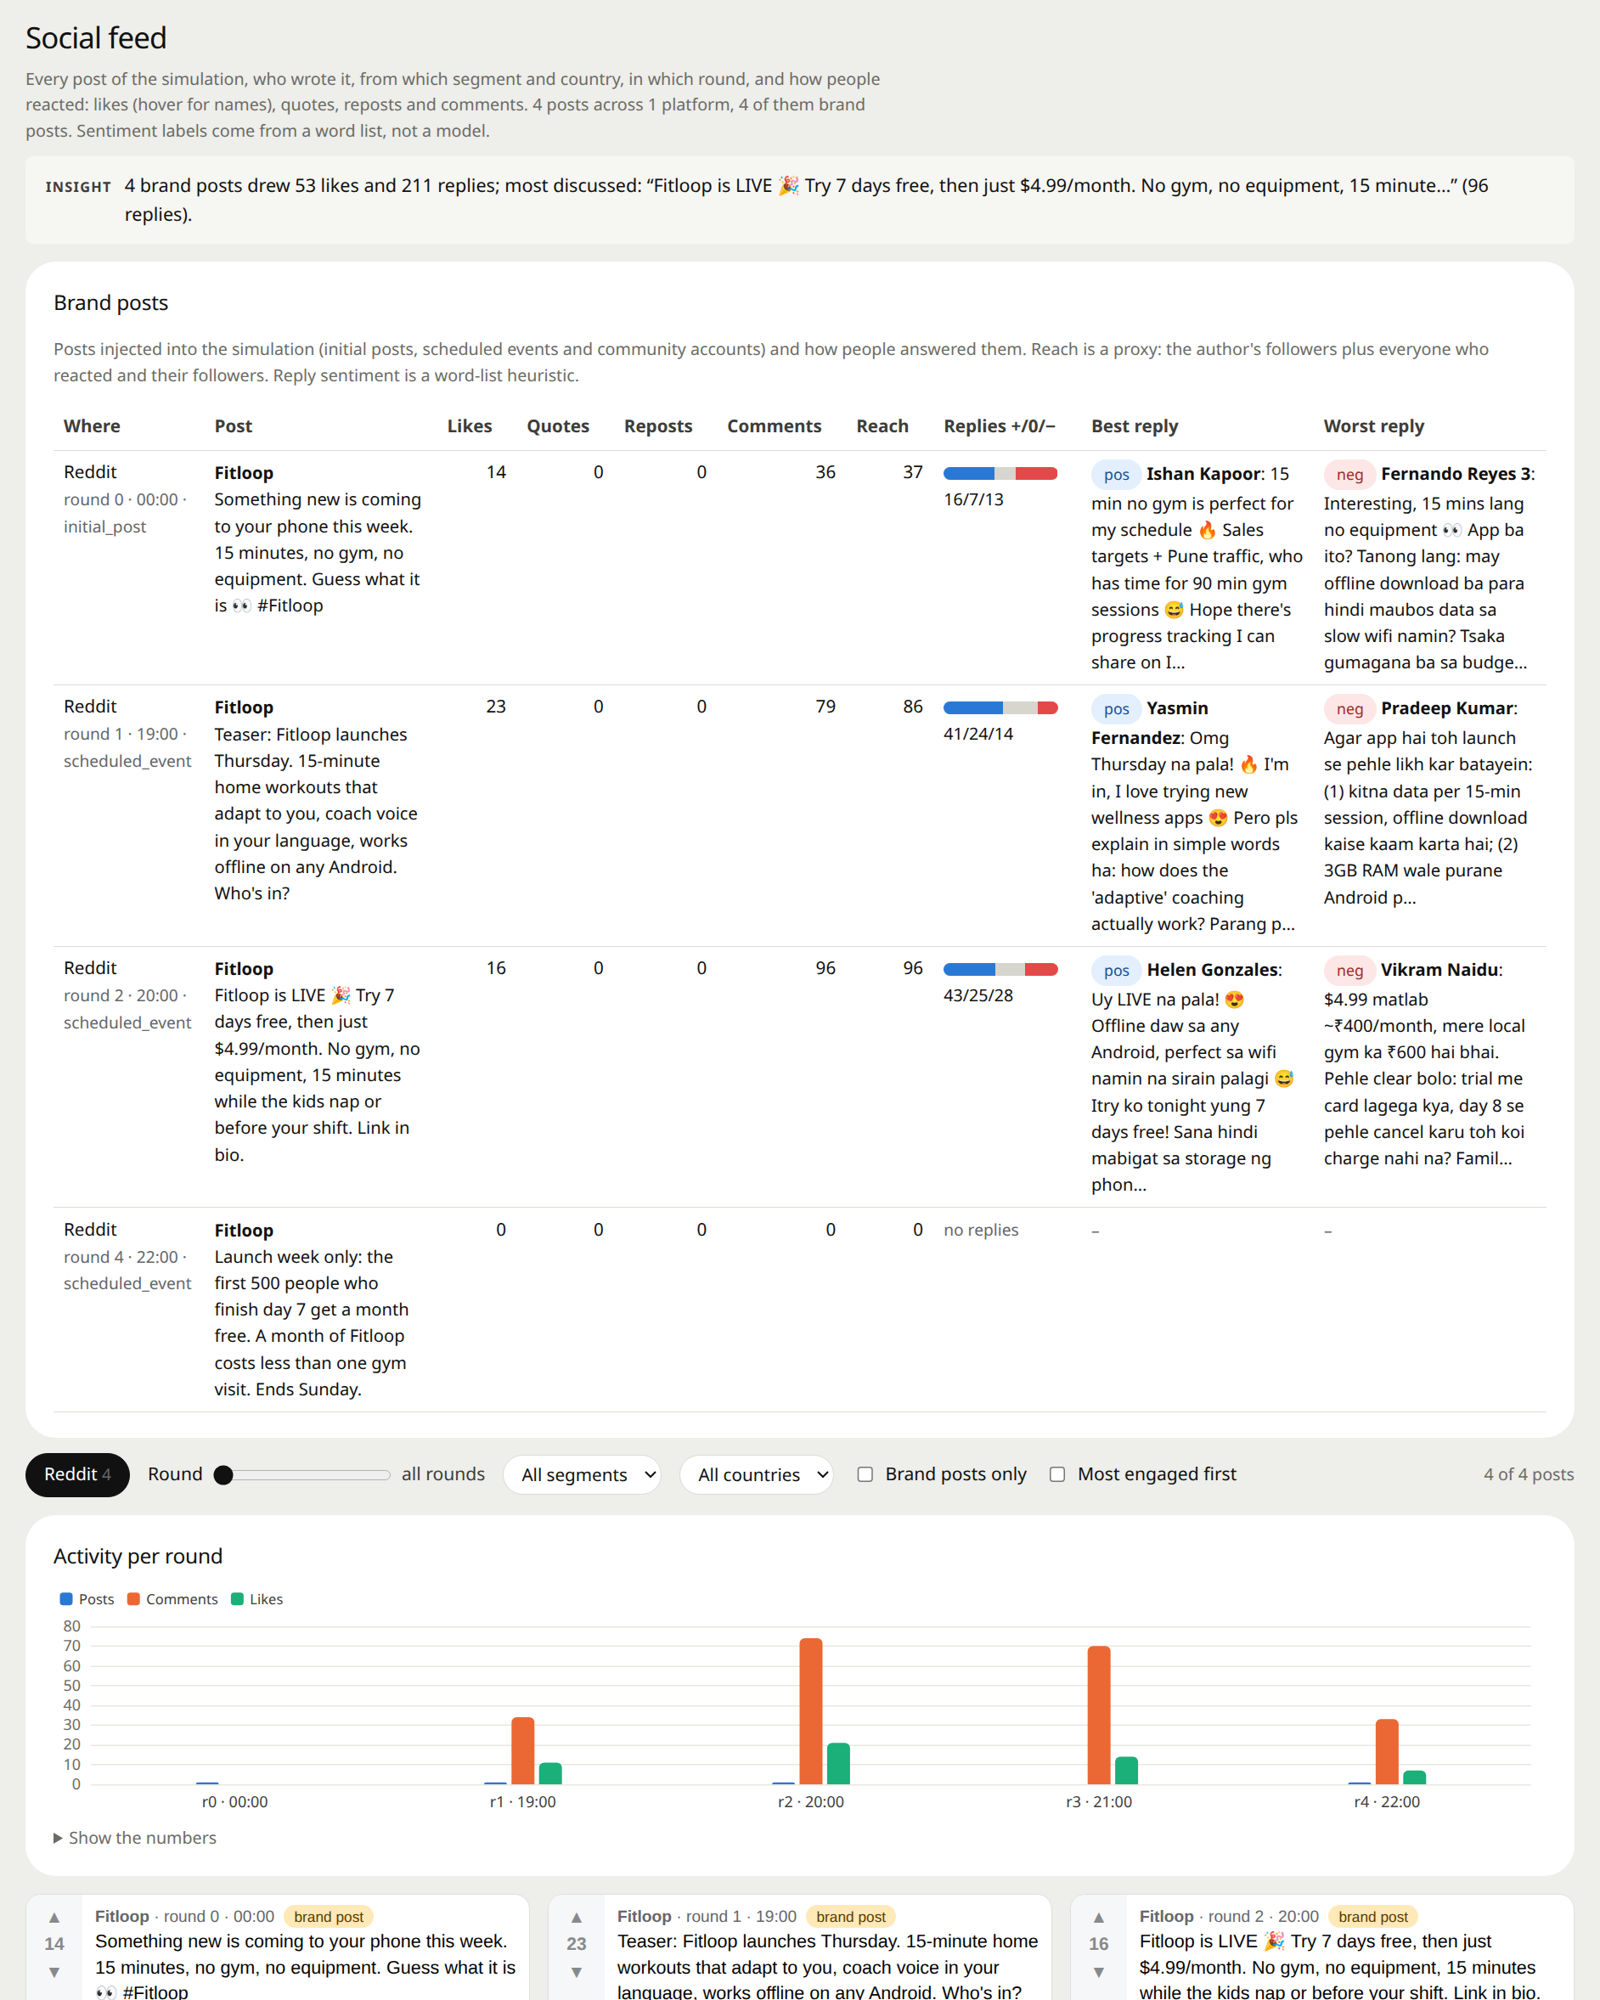
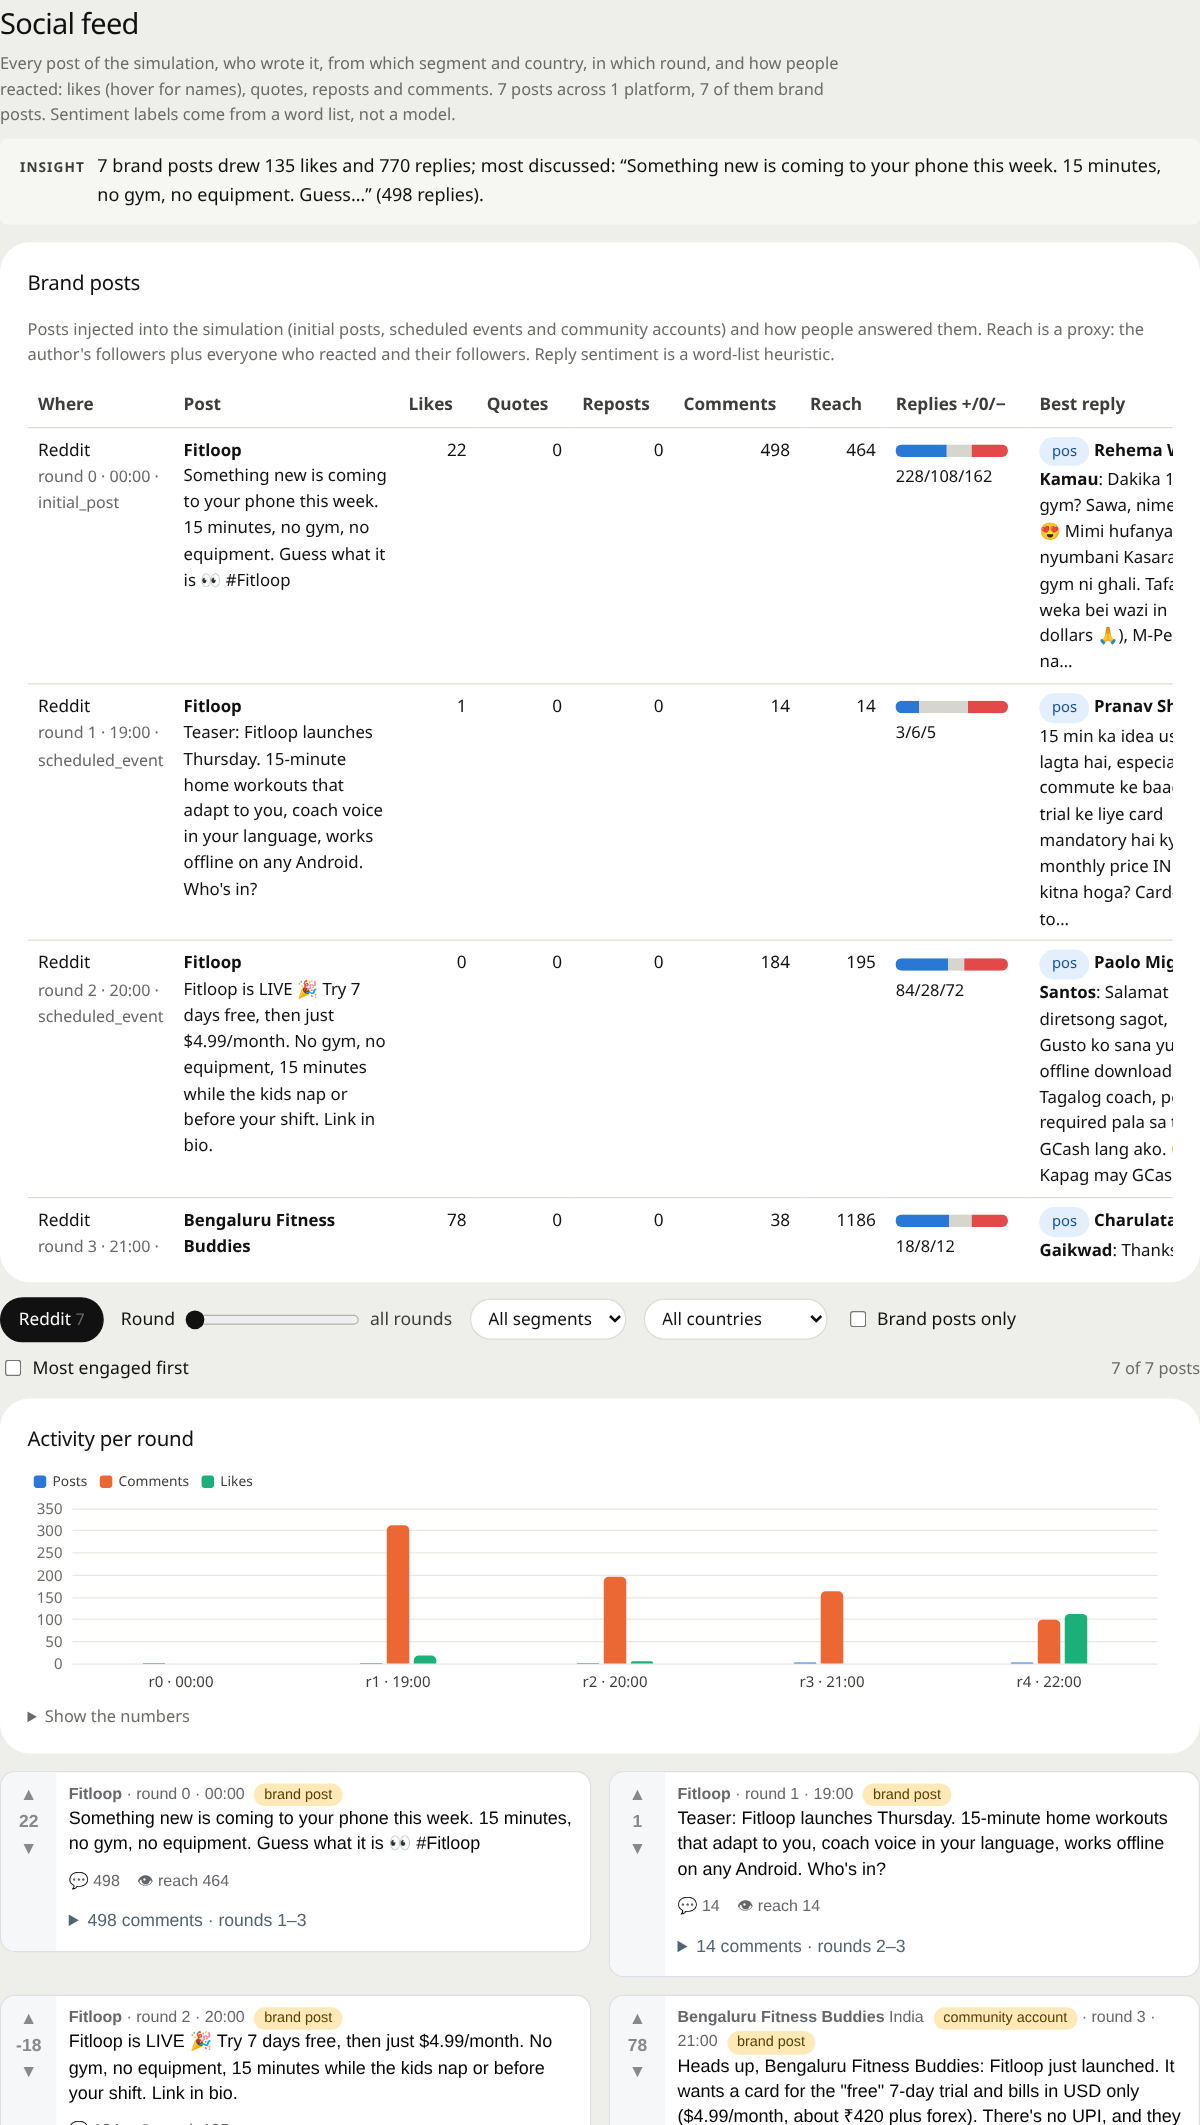
README screenshots from the 3,000-person mixed market: light and dark hero and 15 sections, with new images for model agreement and the sales rehearsal; scripts/readme_screenshots.py regenerates them from any dashboard with the installed Chrome

diff --git a/scripts/readme_screenshots.py b/scripts/readme_screenshots.py
@@ -1,0 +1,92 @@
+"""Capture the README screenshots from a run's dashboard.html with the system Chrome (Playwright, channel "chrome").
+
+    backend/.venv/bin/python scripts/readme_screenshots.py mirofish_runs/<run>/dashboard.html --out docs/images
+
+Writes the light and dark hero (dashboard-results.png, dashboard-dark.png) and one image per dashboard section,
+1600 px wide, each cut at MAX_HEIGHT so long sections stay readable in the README.
+"""
+
+import argparse
+import os
+import sys
+
+from playwright.sync_api import sync_playwright
+
+WIDTH, SCALE, MAX_HEIGHT = 1280, 1.25, 1700
+# README image -> dashboard section id(s); several ids are captured together, top of the first to bottom of the last
+SECTIONS = {
+    "glance.png": ["kpis", "decision"],
+    "map.png": ["worldmap"],
+    "report.png": ["report"],
+    "results.png": ["results"],
+    "models.png": ["models"],
+    "playbook.png": ["playbook"],
+    "pitch.png": ["pitch"],
+    "feed-test.png": ["feedtest"],
+    "social-feed.png": ["socialfeed"],
+    "audiences.png": ["audiences"],
+    "objections.png": ["objections"],
+    "messages.png": ["messages"],
+    "pricing.png": ["pricing"],
+    "analysts.png": ["analysts"],
+    "people.png": ["agents"],
+}
+
+
+def settle(page, ms=900):
+    page.wait_for_timeout(ms)
+
+
+def main() -> int:
+    ap = argparse.ArgumentParser()
+    ap.add_argument("dashboard")
+    ap.add_argument("--out", default="docs/images")
+    ap.add_argument("--only", nargs="*", help="image names to capture (default: all)")
+    a = ap.parse_args()
+    url = "file://" + os.path.abspath(a.dashboard)
+    os.makedirs(a.out, exist_ok=True)
+    want = set(a.only or [])
+    with sync_playwright() as p:
+        browser = p.chromium.launch(channel="chrome", headless=True)
+        for scheme, name in (("light", "dashboard-results.png"), ("dark", "dashboard-dark.png")):
+            if want and name not in want:
+                continue
+            page = browser.new_page(viewport={"width": WIDTH, "height": round(1067 / SCALE)}, device_scale_factor=SCALE,
+                                    color_scheme=scheme)
+            page.goto(url, wait_until="load")
+            settle(page, 1500)
+            page.screenshot(path=os.path.join(a.out, name))
+            print("wrote", name, flush=True)
+            page.close()
+        page = browser.new_page(viewport={"width": WIDTH, "height": 1000}, device_scale_factor=SCALE, color_scheme="light")
+        page.goto(url, wait_until="load")
+        settle(page, 1500)
+        # the sticky top bar and filter chips would sit on top of every section shot
+        page.evaluate("""() => { for (const el of document.querySelectorAll('body *')) {
+            const pos = getComputedStyle(el).position;
+            if (pos === 'sticky' || pos === 'fixed') el.style.setProperty('position', 'static', 'important'); } }""")
+        for name, ids in SECTIONS.items():
+            if want and name not in want:
+                continue
+            first = page.locator(f"#{ids[0]}")
+            if not first.count():
+                print("missing section", ids[0], "for", name, file=sys.stderr)
+                continue
+            for sid in ids:                                   # charts render when they scroll into view
+                page.locator(f"#{sid}").scroll_into_view_if_needed()
+                settle(page)
+            top = page.evaluate(f"document.getElementById('{ids[0]}').getBoundingClientRect().top + window.scrollY")
+            r = page.evaluate(f"(() => {{ const b = document.getElementById('{ids[-1]}').getBoundingClientRect();"
+                              f" return {{x: b.left + window.scrollX, bottom: b.bottom + window.scrollY, w: b.width}}; }})()")
+            height = min(r["bottom"] - top, MAX_HEIGHT)
+            page.evaluate(f"window.scrollTo(0, {max(0, top - 20)})")
+            settle(page)
+            page.screenshot(path=os.path.join(a.out, name), full_page=True,
+                            clip={"x": r["x"], "y": top, "width": r["w"], "height": height})
+            print("wrote", name, int(r["w"] * SCALE), "x", int(height * SCALE), flush=True)
+        browser.close()
+    return 0
+
+
+if __name__ == "__main__":
+    sys.exit(main())

diff --git a/README.md b/README.md
@@ -15,7 +15,7 @@ Self-hosted · Open source · Works from Codex, Claude Code and any MCP agent ·
 
 <picture>
   <source media="(prefers-color-scheme: dark)" srcset="docs/images/dashboard-dark.png" />
-  <img src="docs/images/dashboard-results.png" alt="MarketMirror dashboard for 1,008 simulated buyers: sidebar navigation, decision bar, headline figures and the at-a-glance cards" width="92%" />
+  <img src="docs/images/dashboard-results.png" alt="MarketMirror dashboard for the 3,000-person Fitloop market: sidebar navigation, decision bar, headline figures and the at-a-glance cards" width="92%" />
 </picture>
 
 </div>
@@ -509,7 +509,7 @@ Keep inputs under `scenarios/` and outputs under `mirofish_runs/`; both are giti
 
 ## The dashboard
 
-Each run produces one self-contained HTML dashboard: no server, no external requests, light and dark themes, and phone layouts. A sidebar groups its sections into overview, buyers, tests, evidence and the simulation itself; every chart has a table behind it, and the report exports to Markdown, JSON, CSV and PDF. In runs with more than 500 agents, the agents table lists the 500 most active and says so; everyone is still in the people cards and the CSV downloads. The screenshots below come from the 1,000-person Fitloop run and the offer study.
+Each run produces one self-contained HTML dashboard: no server, no external requests, light and dark themes, and phone layouts. A sidebar groups its sections into overview, buyers, tests, evidence and the simulation itself; every chart has a table behind it, and the report exports to Markdown, JSON, CSV and PDF. In runs with more than 500 agents, the agents table lists the 500 most active and says so; everyone is still in the people cards and the CSV downloads. The screenshots below come from the 3,000-person Fitloop market (people written by Claude, Codex and Gemini), except the study page (the offer study) and the live control room (the 1,000-person run). `scripts/readme_screenshots.py` regenerates them from any run's `dashboard.html` with your installed Chrome.
 
 <table>
 <tr><td colspan="2"><b>Overview</b></td></tr>
@@ -535,7 +535,11 @@ Each run produces one self-contained HTML dashboard: no server, no external requ
 <td width="50%" valign="top"><img src="docs/images/pricing.png" alt="Van Westendorp price sensitivity with acceptable range and sweet spot" /><br /><b>What people would pay.</b> Acceptable price range, sweet spot and the price-sensitivity curves, by segment.</td>
 <td width="50%" valign="top"><img src="docs/images/playbook.png" alt="Sales and marketing playbook cards per audience" /><br /><b>The playbook.</b> One card per audience: what to lead with, the objection to pre-empt, how to answer it, where to seed it, and a quote as proof.</td>
 </tr>
-<tr><td colspan="2" valign="top"><b>Marketing lab and model agreement.</b> The marketing lab (buying committee, creative optimizer, battlecard, journey, pricing choice, competitor choice, landing teardown, roleplay, what-if, per-audience ads, search behaviour, real versus simulated concerns, word of mouth) shows every result with how many people were asked, answered and failed, and a 95% range. In a market with several providers, "Do the models agree?" splits the survey by provider and checks whether the would-convert ranges overlap and whether the top objection and best message match.</td></tr>
+<tr>
+<td width="50%" valign="top"><img src="docs/images/models.png" alt="Do the models agree: would-convert ranges, purchase intent, top objection and best message per provider" /><br /><b>Do the models agree?</b> The same survey split by the provider behind each person, with 95% ranges and three checks. Here Codex's people were far more negative than Claude's, and Gemini's people, played by Claude after Gemini ran out of quota, answered like Claude's.</td>
+<td width="50%" valign="top"><img src="docs/images/pitch.png" alt="Sales rehearsal: pitch score, before and after the rebuttals, and each objection with how far its rebuttal moved people" /><br /><b>The sales rehearsal.</b> Pitch score, yes/maybe/no before and after your rebuttals, and every objection with the rebuttal used, how many it moved and the questions people asked back.</td>
+</tr>
+<tr><td colspan="2" valign="top"><b>Marketing lab.</b> The marketing lab (buying committee, creative optimizer, battlecard, journey, pricing choice, competitor choice, landing teardown, roleplay, what-if, per-audience ads, search behaviour, real versus simulated concerns, word of mouth) shows every result with how many people were asked, answered and failed, and a 95% range.</td></tr>
 <tr><td colspan="2"><b>Evidence</b></td></tr>
 <tr>
 <td width="50%" valign="top"><img src="docs/images/analysts.png" alt="Independent analyst panel with consensus, themes and five analyst cards" /><br /><b>Analyst panel.</b> Five analysts read the run independently; their consensus, the themes they agree on, and each one's recommendation.</td>
